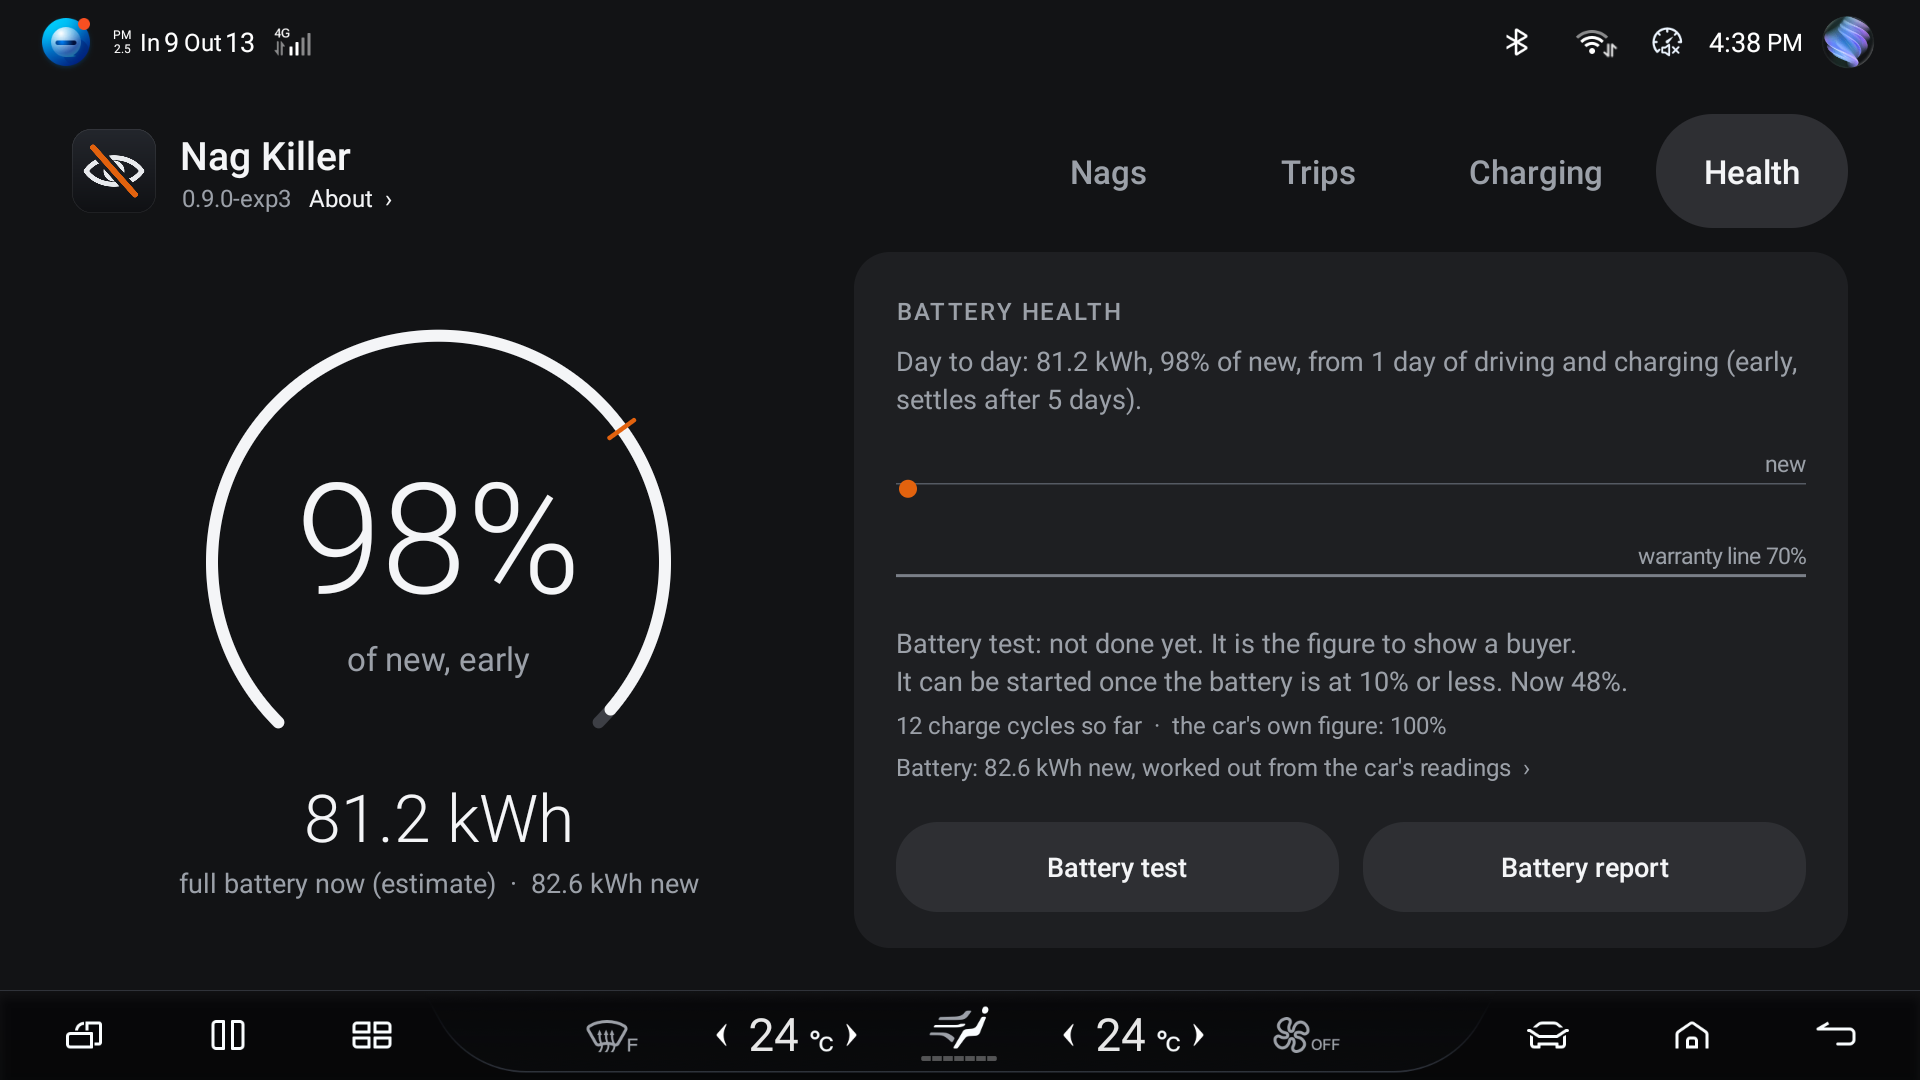
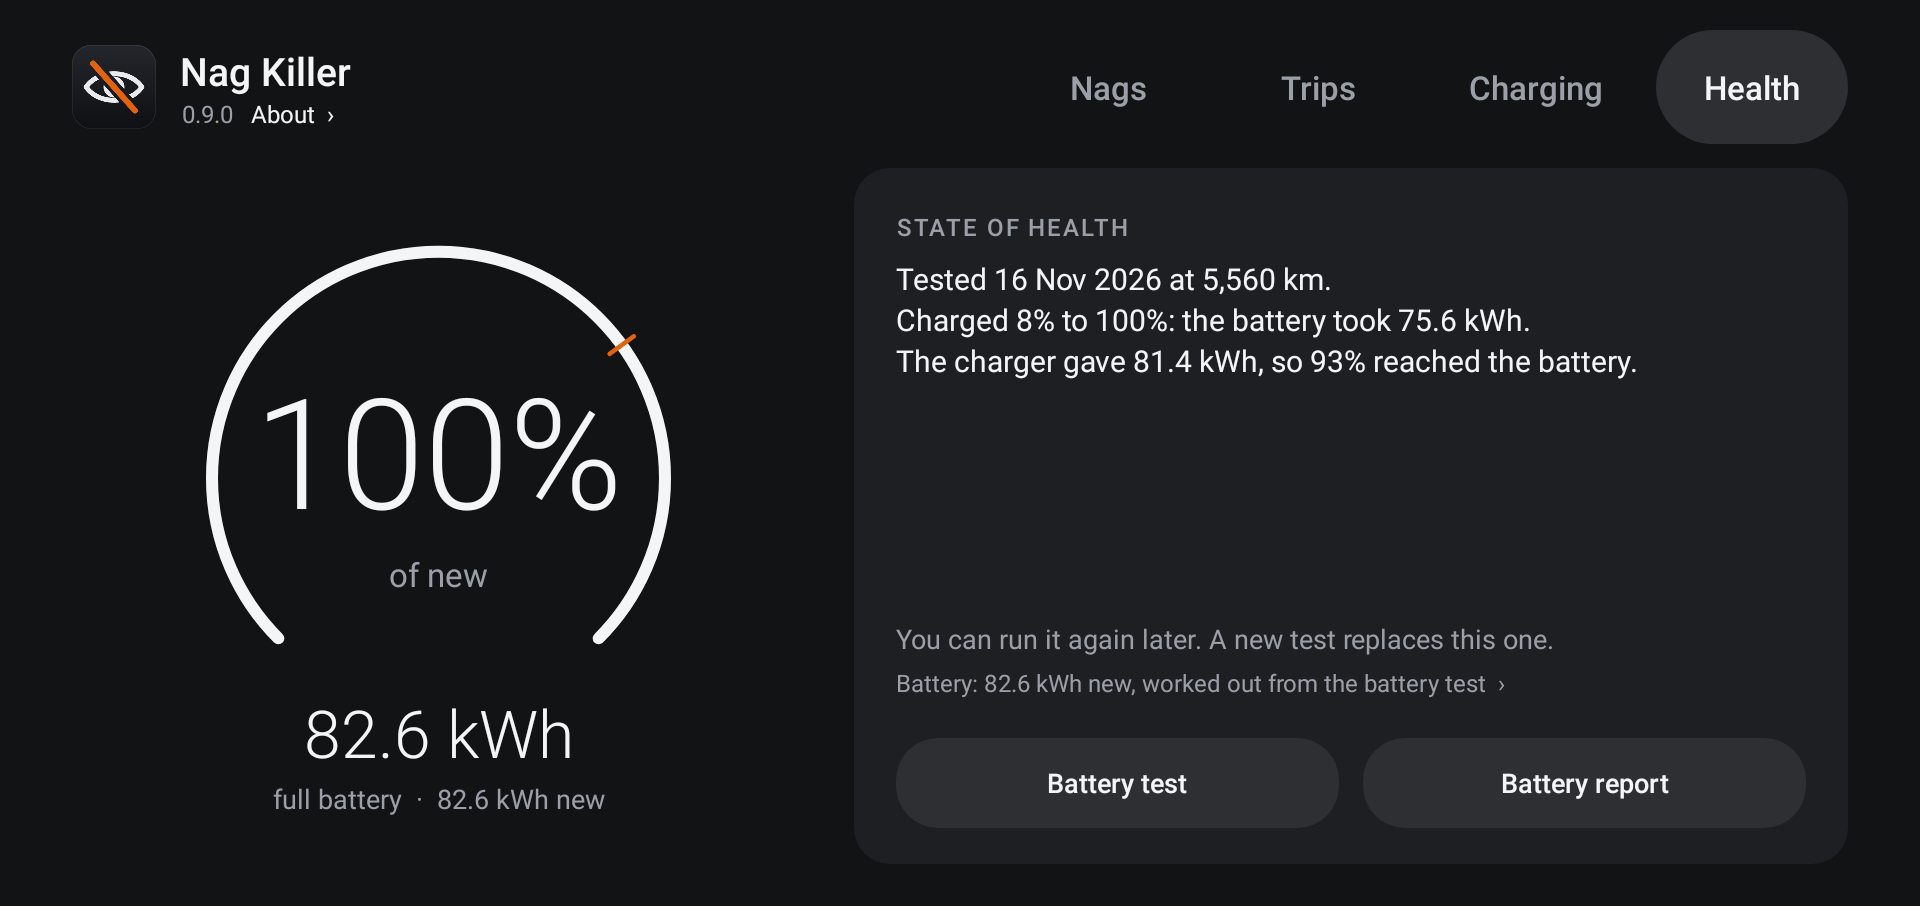
Battery wording matches what the app does now: no day-to-day figure, no extra hour on the charger, a new test replaces the old one, 82.6 kWh everywhere on screen. The report box says anyone on the same Wi-Fi can open it. The battery percent on Charging was cut off at the left (and 100% would have be

diff --git a/app/src/au/jaso/naglab/BatteryScreen.java b/app/src/au/jaso/naglab/BatteryScreen.java
@@ -13,14 +13,13 @@ import java.util.List;
 
 /**
  * Two tabs. Charging: the battery now (live while plugged in with the car on), and on the right
- * this month, the prices, kWh per month and every charge the app has seen. Health: what a full
- * battery holds now against new (everyday readings, one each time the percent moves), the
- * battery test and the battery report.
+ * this month, the prices, kWh per month and every charge the app has seen. Health: the battery
+ * test (what a full battery holds now against new, from one full charge) and the battery report.
  *
  * Nothing here is measured by the app. A charge is the difference between the battery at the
  * end of one trip and at the start of the next (the app is not running while the car is off),
- * and the health figure is the car's battery computer's own sums, so it is always worded as an
- * estimate. Drawn from what NagService already read: this screen never talks to the car.
+ * and the test result is the car's battery computer's own sums over one charge, so it is always
+ * worded as an estimate. Drawn from what NagService already read: this screen never talks to the car.
  */
 final class BatteryScreen {
     private final MainActivity a;
@@ -59,11 +58,11 @@ final class BatteryScreen {
             Trips.PACK_KWH = pick == 2 ? Trips.PACK_BIG : Trips.PACK_STD;
             packWarn = !Float.isNaN(guess) && guess != Trips.PACK_KWH;
             packText = "Battery: " + Trips.one(Trips.PACK_KWH) + " kWh new, your pick"
-                    + (packWarn ? ", but the readings look like the " + Trips.one(guess) + " kWh one" : "");
+                    + (packWarn ? ", but the car looks like the " + Trips.one(guess) + " kWh one" : "");
             Trips.PACK_NOTE = "The owner chose this size." + (packWarn ? " The battery test points to the "
                     + Trips.one(guess) + " kWh battery instead, so treat the percentages with caution."
-                    : Float.isNaN(guess) ? " The car's readings can neither confirm nor rule it out."
-                    : " The car's readings agree with it.");
+                    : Float.isNaN(guess) ? " The battery test can neither confirm nor rule it out."
+                    : " The battery test agrees with it.");
         }
     }
 
@@ -73,8 +72,8 @@ final class BatteryScreen {
         Sheet sh = new Sheet(a, "Which battery?");
         sh.text("Battery health is measured against what the battery held new, and the Sealion 7 comes with two sizes. "
                 + "The car doesn't say which it has.");
-        final String[] names = {"Work it out for me", "82.5 kWh", "91.3 kWh"};
-        final String[] subs = {"From the car's own readings. Best choice on most cars.",
+        final String[] names = {"Work it out for me", "82.6 kWh", "91.3 kWh"};
+        final String[] subs = {"From your battery test, or a very fast charge. Best choice on most cars.",
                 "Every Australian and NZ car. Comfort and Design in the UK and Europe.",
                 "Excellence AWD in the UK and Europe."};
         final TextView[] rows = new TextView[3];
@@ -200,7 +199,6 @@ final class BatteryScreen {
         LinearLayout nums = new LinearLayout(a);
         nums.setGravity(Gravity.BOTTOM);
         livePct = thin("–", 112, MainActivity.TEXT);
-        livePct.setTranslationX(-a.dp(6));   // the thin "5" carries its own left gap
         nums.addView(livePct);
         pctSub = a.text("", 22, MainActivity.SUB, false);
         pctSub.setPadding(a.dp(20), 0, 0, a.dp(22));
@@ -445,13 +443,13 @@ final class BatteryScreen {
         switch (run.state) {
             case Trips.TestRun.CHARGE:
                 st = "Battery test running\n" + (NagService.plugged
-                        ? "Charging" + (soc >= 0 ? ", " + soc + "%" : "") + ". Leave it until 100%, then another hour."
+                        ? "Charging" + (soc >= 0 ? ", " + soc + "%" : "") + ". Leave it until 100%."
                         : run.lastSoc > run.lowSoc + 1 ? "Part way: " + run.lastSoc + "%. Plug back in and leave it until 100%. Don't drive."
                         : "Started at " + run.lowSoc + "%. Plug into an AC charger now and charge to 100%. Don't drive until it's full.");
                 hot = true;
                 break;
             case Trips.TestRun.DONE:
-                st = "Run it again every few months to see how the battery is holding up.";
+                st = "You can run it again later. A new test replaces this one.";
                 break;
             case Trips.TestRun.FAILED:
                 st = "Battery test stopped\n" + run.reason;
@@ -602,7 +600,8 @@ final class BatteryScreen {
                 if (ips.size() > 1) {
                     sh.text("Or join the car's own hotspot and open:").big("http://" + ips.get(1) + ":" + ReportServer.PORT);
                 }
-                sh.note("Keep this open while you do. From there you can save, print or send it. It has your VIN on it.");
+                sh.note("Keep this open while you do. From there you can save, print or send it. It has your VIN on it, "
+                        + "and anyone on the same Wi-Fi can open it while this box is open. Press Done and it stops.");
             } else {
                 sh.text("The car isn't on Wi-Fi, so it can't hand it to your phone right now. Connect the car to your "
                         + "phone's hotspot or home Wi-Fi and press Battery report again.").note("Saved on the car as " + f.getPath());
@@ -715,8 +714,7 @@ final class BatteryScreen {
         String[] steps = {
                 "Plug into an AC charger, 7 kW (32 amp) if you can. Not a fast charger. A power point works but "
                         + "takes about a day and a half.",
-                "Let it charge to 100% without stopping, then leave it plugged in another hour so the cells balance. "
-                        + "The car can be off. Don't drive it until it's full.",
+                "Let it charge to 100% without stopping. The car can be off. Don't drive it until it's full.",
                 "Start the car. The result is here, and on the battery report."};
         final boolean ready = Trips.TestRun.canStart(NagService.live);
         int socNow = NagService.live == null ? -1 : NagService.live.soc;
@@ -754,8 +752,8 @@ final class BatteryScreen {
             if (run.state == Trips.TestRun.FAILED) sh.text("The last test stopped: " + run.reason);
             sh.text("The proper way to measure the battery: one uninterrupted charge from nearly empty to full. It "
                     + "gives the figure that goes on the battery report, the one to show a buyer.");
-            sh.note("Like the day-to-day figure, it comes from the car's own battery computer. The test reads it over "
-                    + "one full charge, which is when it is most reliable. Afterwards you can type in what the charger "
+            sh.note("The figure comes from the car's own battery computer, read over one full charge, which is when "
+                    + "it is most reliable. Afterwards you can type in what the charger "
                     + "delivered, and that goes on the report as an outside check.");
             if (ready) {
                 sh.text("The battery is at " + socNow + "%, low enough to start now.").steps(steps)

diff --git a/app/test/au/jaso/naglab/ScreensTest.java b/app/test/au/jaso/naglab/ScreensTest.java
@@ -51,7 +51,8 @@ public class ScreensTest {
     }
 
     @Before
-    public void clean() {
+    public void clean() throws Exception {
+        batteryTest(null);
         NagService.live = null;
         NagService.tripNow = null;
         NagService.running = true;
@@ -242,6 +243,59 @@ public class ScreensTest {
         store(history());
         driving(88.4f, 95, 15.9f, 96, 76, 318);
         check("trips-upright-1h35", MainActivity.TAB_TRIPS);
+    }
+
+    // ---- Health and Charging tabs
+
+    /** The battery test file as the service would have left it, and the cached copy dropped. */
+    private static void batteryTest(String line) throws Exception {
+        File f = new File(app().getFilesDir(), NagService.TEST_FILE);
+        if (line == null) f.delete();
+        else try (PrintWriter w = new PrintWriter(f, "UTF-8")) {
+            w.println(line);
+        }
+        java.lang.reflect.Field c = NagService.class.getDeclaredField("testRun");
+        c.setAccessible(true);
+        c.set(null, null);
+    }
+
+    /** Parked, a few days after the owner's real test (15 Nov 2026: 8% to 100%, 6.8 to 82.4 kWh). */
+    private static void testedScene() throws Exception {
+        long low = at(4, 20, 5), end = at(3, 7, 37);
+        batteryTest(Trips.TestRun.DONE + "\t" + low + "\t" + low + "\t" + end + "\t8\t100\t6.8\t5560.0\t82.4\t82.6\t\t5560.0");
+        app().getSharedPreferences(NagService.PREFS, Context.MODE_PRIVATE).edit()
+                .putFloat("test_kwh_" + end, 81.4f).commit();
+        NagService.live = car(false, 0f, 0, 0f, 76, 412, 5642.3f, 1012f);
+    }
+
+    @Test
+    public void healthTested() throws Exception {
+        testedScene();
+        List<TextView> shown = check("health-tested", MainActivity.TAB_HEALTH);
+        if (!shows(shown, "100")) fail("health-tested: the test result isn't on the screen");
+    }
+
+    @Test
+    public void healthNoTest() throws Exception {
+        batteryTest(null);
+        NagService.live = car(false, 0f, 0, 0f, 76, 412, 5642.3f, 1012f);
+        check("health-no-test", MainActivity.TAB_HEALTH);
+    }
+
+    @Test
+    public void chargingParked() throws Exception {
+        store(history());
+        testedScene();
+        check("charging-parked", MainActivity.TAB_BATTERY);
+    }
+
+    /** Just finished charging: the widest the battery percent gets. */
+    @Test
+    public void chargingFull() throws Exception {
+        store(history());
+        testedScene();
+        NagService.live = car(false, 0f, 0, 0f, 100, 540, 5642.3f, 1012f);
+        check("charging-100", MainActivity.TAB_BATTERY);
     }
 
     // ---- Drawing and checking

diff --git a/app/src/au/jaso/naglab/Trips.java b/app/src/au/jaso/naglab/Trips.java
@@ -100,6 +100,16 @@ final class Trips {
         /** Shown only: made by merge(), or contains the trip in progress. Not stored. */
         boolean merged, live;
 
+        /** A snapshot for the screens: the service keeps extending its own trip on its thread. */
+        Trip copy() {
+            Trip t = new Trip();
+            t.start = start; t.end = end; t.km = km; t.kwh = kwh; t.odoStart = odoStart; t.odoEnd = odoEnd;
+            t.batStart = batStart; t.batEnd = batEnd; t.gridStart = gridStart; t.gridEnd = gridEnd;
+            t.min = min; t.socStart = socStart; t.socEnd = socEnd; t.rise = rise;
+            t.merged = merged; t.live = live;
+            return t;
+        }
+
         static Trip start(Reading r) {
             Trip t = new Trip();
             t.start = r.wall - r.min * 60_000L;
@@ -750,7 +760,7 @@ final class Trips {
                     .append("the app works out what a full battery holds from that charge.</p>");
         }
         h.append("<p><b>Battery size used for the percentages: ").append(one(PACK_KWH)).append(" kWh.</b> ")
-                .append(PACK_NOTE).append(" The Sealion 7 was sold with an 82.5 kWh battery (all Australian and NZ cars; "
+                .append(PACK_NOTE).append(" The Sealion 7 was sold with an 82.56 kWh battery (all Australian and NZ cars; "
                 + "Comfort and Design in the UK and Europe) and a 91.3 kWh battery (Excellence AWD in the UK and Europe). "
                 + "If the wrong size is used the percentages are wrong: measured against the smaller one, a worn larger "
                 + "battery looks healthier than it is. Check the size against the car's trim, and go by the kWh figures, "

diff --git a/app/src/au/jaso/naglab/NagService.java b/app/src/au/jaso/naglab/NagService.java
@@ -124,6 +124,8 @@ public class NagService extends Service implements DmsClient.Listener {
     private static final long LIVE_MS = 2_000, SAVE_GAP_MS = 30_000;
     /** Latest reading and the trip in progress, for the screen. */
     static volatile Trips.Reading live;
+    /** A copy of the trip in progress, for the screens (the tracker's own one changes on the
+     *  service thread). Swapped whole, never changed in place. */
     static volatile Trips.Trip tripNow;
     /** Bumped when a trip is finished and written (the screen reloads the list). */
     static volatile int tripsVersion;
@@ -180,7 +182,7 @@ public class NagService extends Service implements DmsClient.Listener {
         if (!trackerLoaded) {
             trackerLoaded = true;
             tracker.current = Trips.loadCurrent(new java.io.File(getFilesDir(), TRIP_NOW_FILE));
-            tripNow = tracker.current;
+            tripNow = tracker.current == null ? null : tracker.current.copy();
         }
         Trips.Reading r = adas.readTrip();
         live = r;
@@ -227,7 +229,7 @@ public class NagService extends Service implements DmsClient.Listener {
                     + (run.state == Trips.TestRun.FAILED ? " (" + run.reason + ")" : ""));
         }
         Trips.Trip done = tracker.update(r);
-        tripNow = tracker.current;
+        tripNow = tracker.current == null ? null : tracker.current.copy();
         long now = SystemClock.elapsedRealtime();
         try {
             if (done != null) {

diff --git a/README.md b/README.md
@@ -3,9 +3,9 @@
 # Nag Killer for BYD Sealion 7
 
 An Android app that runs on the car's screen and keeps the nags you don't want switched off,
-every time you start the car. It can also put your seat fans on for you at every start. An
-experimental release adds a log of your trips and charges and a battery health figure
-([see below](#experimental-trips-charging-and-health)).
+every time you start the car. It can also put your seat fans on for you at every start, and
+it keeps a log of your trips and charges and a battery health figure
+([see below](#trips-charging-and-health)).
 
 It can turn off:
 
@@ -39,16 +39,12 @@ No more pressing the seat fan buttons every drive. Pick Off, Low or High for the
 passenger seats and the app switches them on a few seconds after each start. After that it
 leaves them alone, so if you turn one off mid-drive it stays off until the next start.
 
-## Experimental: Trips, Charging and Health
+## Trips, Charging and Health
 
-**This part is a preview. Most of it has not been properly tested yet, on my car or anyone
-else's.** It's in the 0.9.0 experimental release only, not in the normal release. It's here so
-you can see where the app is heading and tell me what you think. The nags and seat fans work
-the same as before.
-
-What I'm trying to get to: the car keeps no history of its own, so the app keeps it for you.
-Every drive, every charge and what it cost, what you've saved against petrol, and an honest
-battery health figure you can show a buyer when you sell the car.
+The car keeps no history of its own, so the app keeps it for you: every drive, every charge
+and what it cost, what you've saved against petrol, and an honest battery health figure you
+can show a buyer when you sell the car. New in 0.9.0. The nags and seat fans work the same as
+before.
 
 Everything stays on the car. None of it is sent anywhere.
 
@@ -90,10 +86,12 @@ can pick it yourself on the Health tab.
   without driving, and the app works out the figure from that one charge. The car can be off
   while it charges. It can't be started above 10%, it has to reach 100%, and it tells you if
   something spoiled it. Type in the kWh your charger showed and it also shows how much of it
-  reached the battery. Run it again every few months to see how the battery is holding up.
+  reached the battery. You can run it again later; the new result replaces the old one.
 * Battery report: a one-page report with the car's VIN, odometer, the test result and what it
   rests on, and your charging and trip totals. With the car on Wi-Fi you can open it on your
-  phone to save or print. It says on it that it's an owner's log, not a certificate.
+  phone to save or print. While the report box is open, anyone on the same Wi-Fi can open it
+  (it has your VIN on it); press Done and it stops. It says on it that it's an owner's log, not
+  a certificate.
 
 The figure comes from the car's own battery computer, so it is that computer's opinion, not an
 independent test.
@@ -108,8 +106,7 @@ Tested on my car:
 * One AC charge on a 7 kW wallbox showed correctly while it was happening and afterwards.
 * Prices, costs and the petrol saving show and add up.
 * The report opens on a phone on the same Wi-Fi, and stops being served when its box closes.
-* Check for update (in About) took the car from one experimental build to the next. The first
-  try showed a bug in it, fixed in experimental 3.
+* Check for update (in About) updated the car by itself, more than once.
 * The Mac installer script ran start to finish.
 * Seat fans come back after a restart, and stay off if you turn one off mid-drive.
 * The battery test, once: 8% to 100% on a 7 kW wallbox took 75.6 kWh into the battery, a full
@@ -122,18 +119,14 @@ Not tested yet:
 * The Windows installer script in the `install` folder (see Install below).
 * Any car other than one Australian 2025 Sealion 7.
 
-Don't rely on any of it for a sale or a warranty question yet.
+The battery figures are the car's own battery computer's sums. They're a good guide, not a
+warranty assessment.
 
 ### Tell me what you think
 
-If you try it, I'd like to hear what's wrong, what's confusing and what you'd want it to do:
+I'd like to hear what's wrong, what's confusing and what you'd want it to do:
 [open an issue](https://github.com/jasoisjaso/byd-nag-killer/issues). Numbers that don't match
 your car, your charger or your bill are the most useful thing you can send.
-
-To try it, install `naglab.apk` from the release marked **Pre-release** on the
-[releases page](https://github.com/jasoisjaso/byd-nag-killer/releases), the same way as the
-normal one below. To go back, uninstall it (`adb uninstall au.jaso.naglab`) and install the normal
-release. Uninstalling clears your settings and the trip log on the car.
 
 ## Install
 
@@ -238,7 +231,7 @@ It doesn't touch Overdrive. If you use Overdrive, the script also wakes it when 
 On my car: DMS, lane assist, child detection, the speed chime, AEB, cross traffic brake and
 emergency lane keeping all go off and come back properly, they're switched off again after a
 restart, the app comes back after the car turns off and after the screen reboots, and it
-survives a night parked. Seat fans come back on at Low or High after a restart. The experimental Trips, Charging and Health tabs have their own list above. The over-limit warning switch hasn't been confirmed yet because it
+survives a night parked. Seat fans come back on at Low or High after a restart. Trips, Charging and Health have their own list above. The over-limit warning switch hasn't been confirmed yet because it
 was already off on my car.
 
 ## Other BYDs
@@ -280,9 +273,9 @@ If both print a path it's worth a try. Open an issue and say how it went.
 
 ## Update or remove
 
-* Update: `adb install -r naglab.apk`. Settings are kept. The experimental release can also
-  update itself from the car's screen: turn debugging on, then About > Check for update. That's
-  the only time the app goes online.
+* Update: `adb install -r naglab.apk`. Settings are kept. From 0.9.0 the app can also update
+  itself from the car's screen: turn debugging on, then About > Check for update. That's the
+  only time the app goes online.
 * Stop the helper: `adb shell touch /data/local/tmp/naglab_watchdog.disabled`
 * Remove: turn the Keep off switches off, then `adb uninstall au.jaso.naglab`
 
@@ -293,8 +286,7 @@ ship: Watch > Custom > Releases.
 
 Being worked on:
 
-* Trips, charging costs and battery health. In the experimental release now, still being
-  tested (see above).
+* Range worked out from your own driving, and distance since the last full charge.
 * Leave lock. The car locks itself once you've turned it off, got out and shut every door.
   Locking from the app works on my car, the hard part is making sure nobody's still inside.
   On my car only until it's proven.
